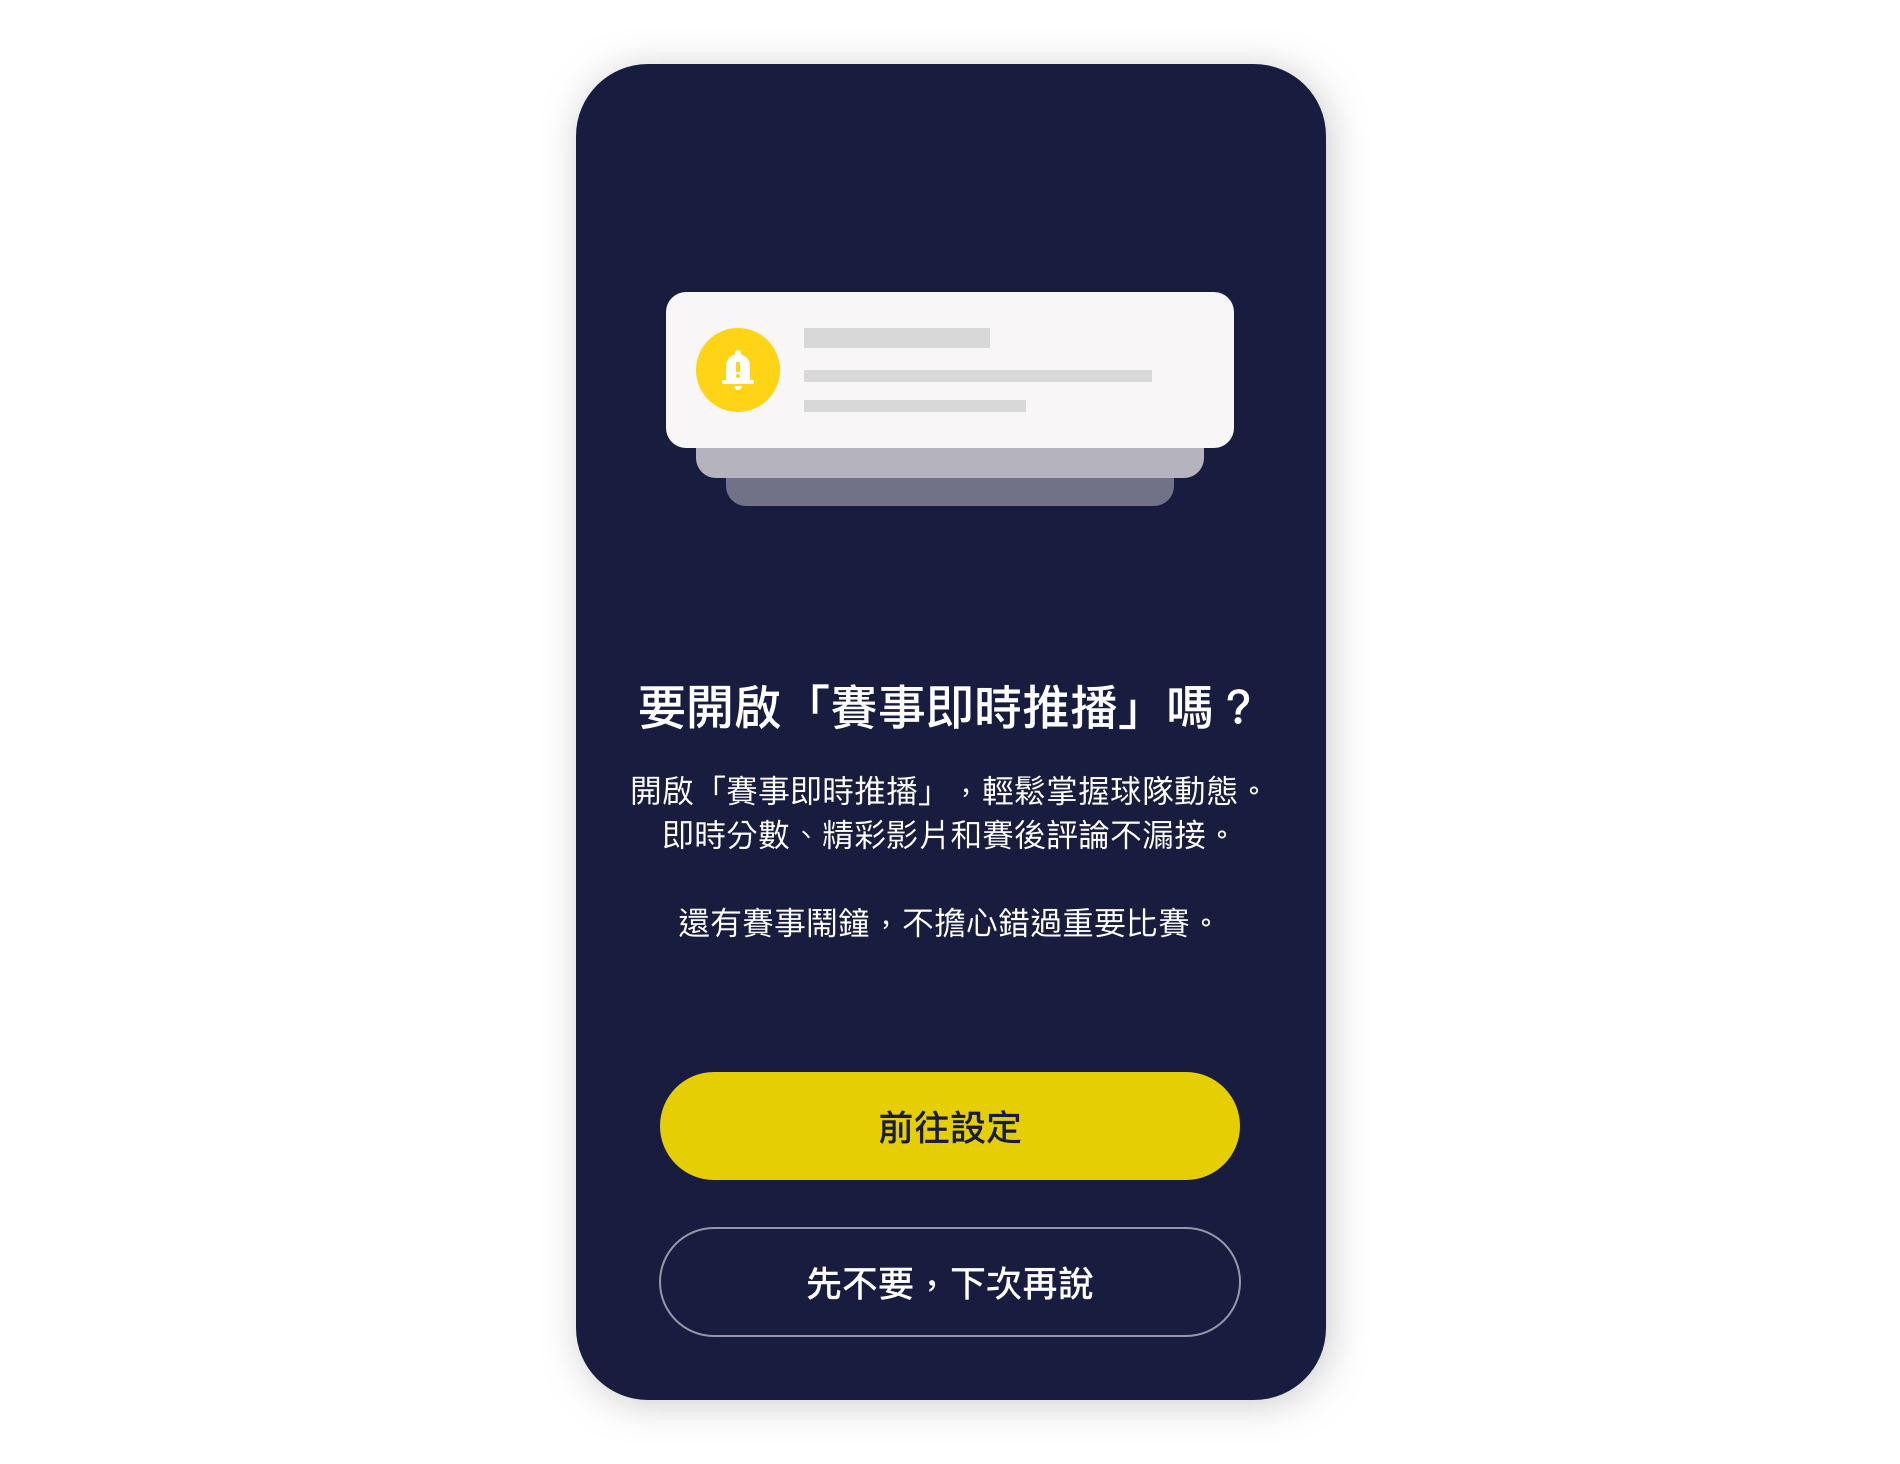
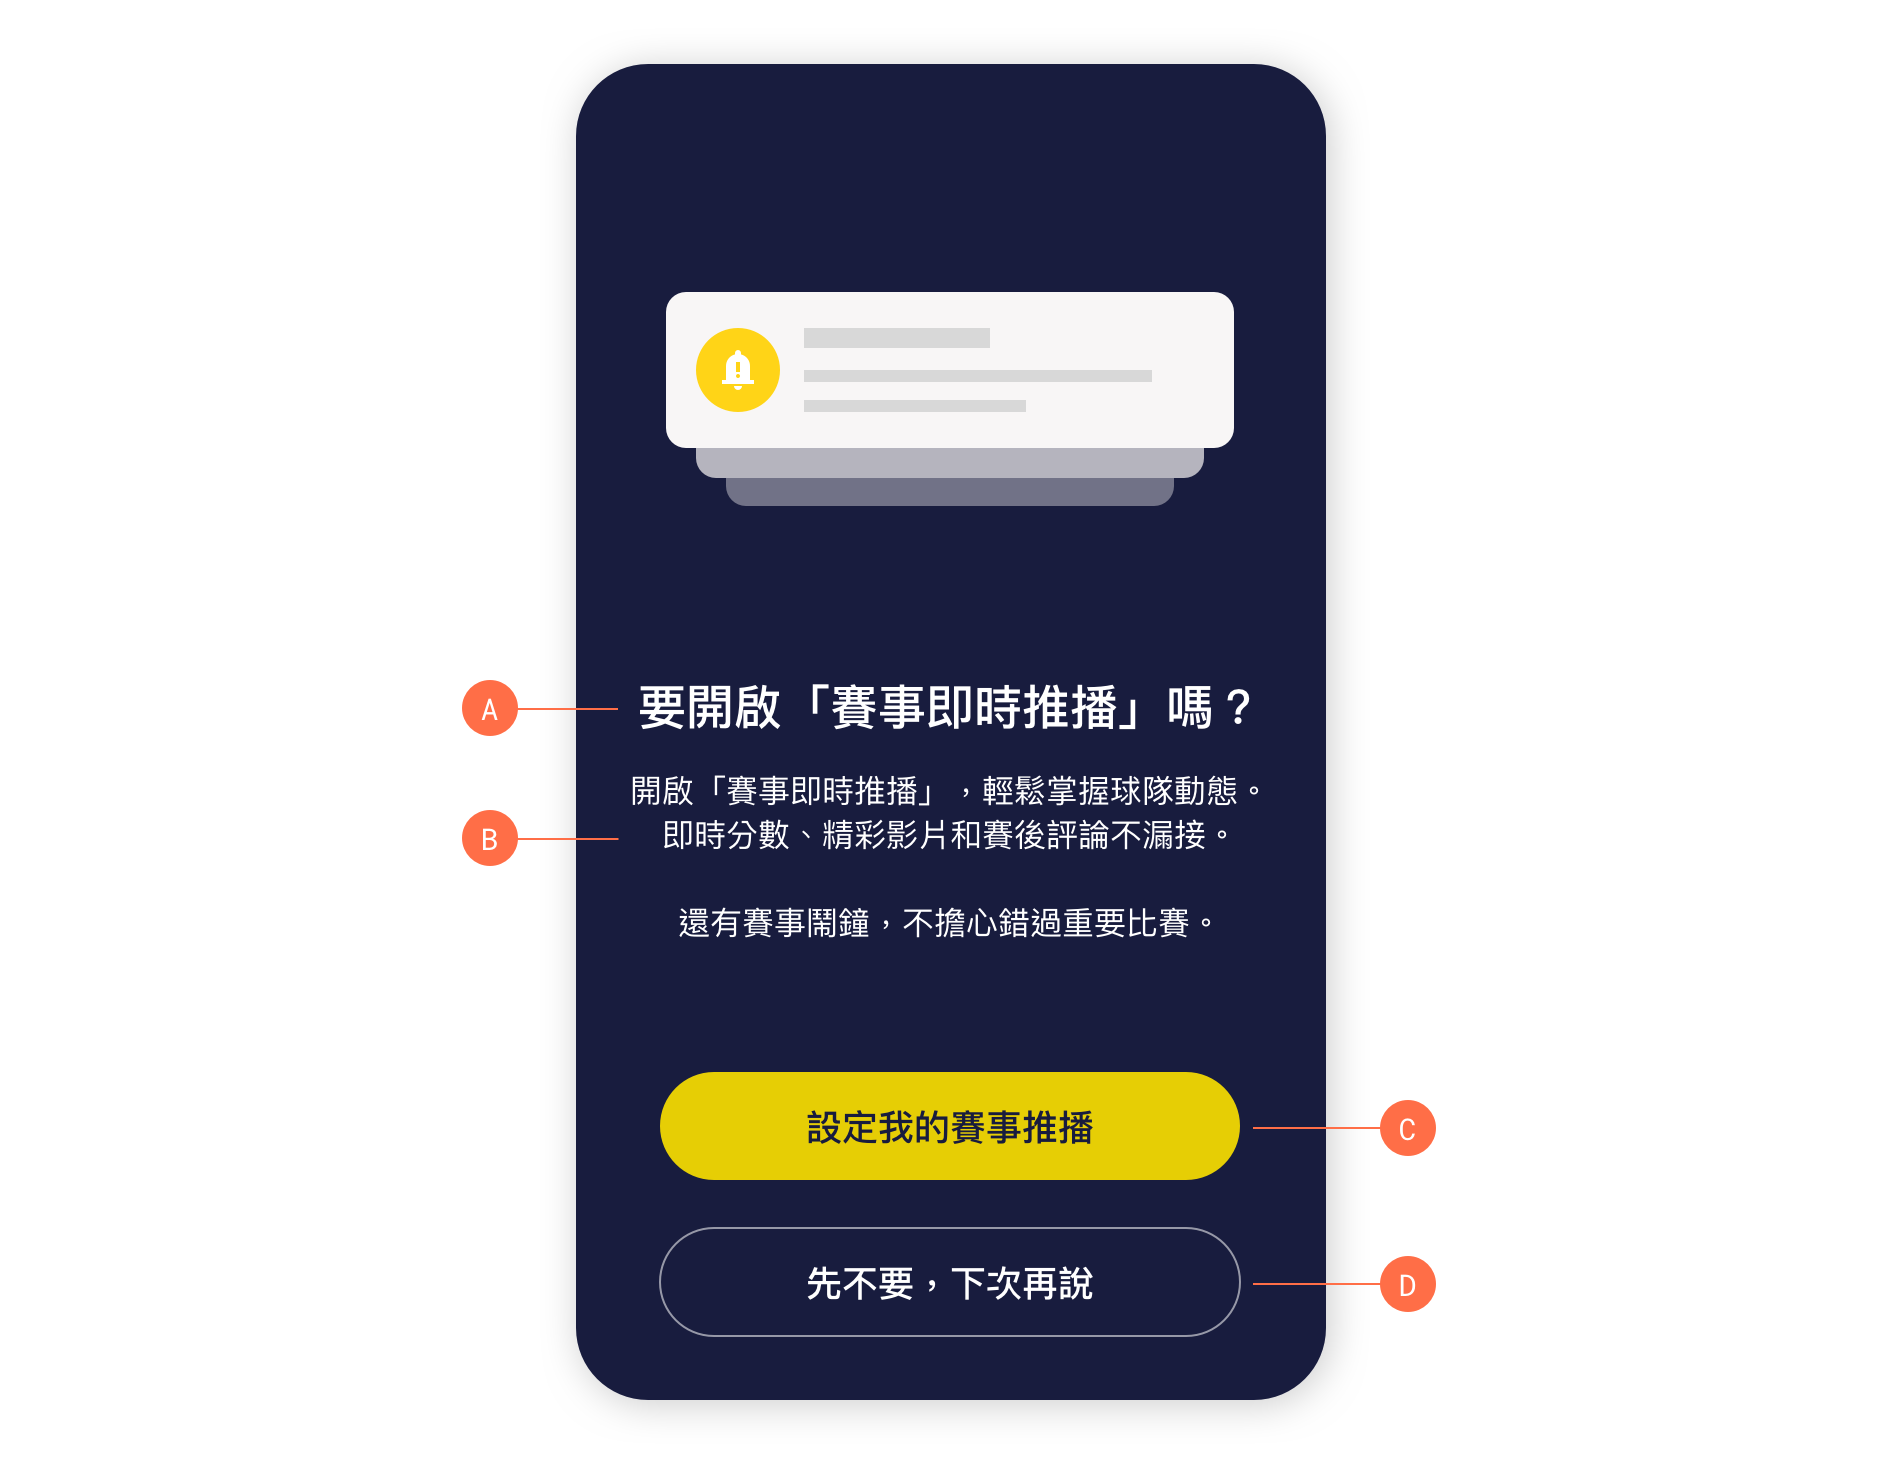
Updated UXW

diff --git a/content.html b/content.html
@@ -212,7 +212,7 @@
             </div>
           </div>
         </div>
-        <h2 class="sub" id="list-item-2" class="categoryHeading">Error Messag</h2>
+        <h2 id="list-item-2" class="sub categoryHeading">Error Messag</h2>
         <div class="row mySectionGroup" >
           <div class="col-md-12 mySectionGroup-heading">
             <h3>Scenario #01</h3>
@@ -428,13 +428,17 @@
           </div>
           <div class="mySectionGroup-screenshot">
             <div class="screenshot"><img src="images/uxw/Promo-D2.png"/>
-              <p>↑ caption goes here: Consectetuer adipiscing elit. Aenean commodo liean maa!</p>
+              <p><span class="captionNum">A</span>Make the headline a direct call to action for users to enable notifications.<br>
+				 <span class="captionNum">B</span>Tell users the benefits of the notification. <br> 
+				  <span class="captionNum">C</span>Use the same keyword "set up" to to reinforce the call to action.<br> <span class="captionNum">D</span>Depends on the business need, the "not now" button provides an opportunity for the promotional ad to reappear.</p> 
             </div>
             <div class="info row" style="margin: 0px">
               <div class="col-lg-6">
                 <h4>Approach</h4>
                 <ol>
-                  <li>asdasd</li>
+					<li>To make the message clear and concise, the headline should explicitly tell users what the app wants them to do.</li>
+                  <li>For the call-to-action buttons, use terms that users can predict what will happen</li>
+					<li>Tell users what's the benefits of the notification</li>
                 </ol>
               </div>
               <div class="col-lg-6">
@@ -450,7 +454,7 @@
           </div>
           <div class="col-md-6">
             <h4>Challenge</h4>
-            <p>Tell the user that one of their favorite bands is playing live in their town. How would you compel them to want to go?</p>
+            <p>Tell the user that one of their favorite bands is playing live in their town and compel them to want to go.</p>
           </div>
           <div class="col-md-6">
             <h4>Length restriction</h4>
@@ -460,13 +464,16 @@
           </div>
           <div class="col-12 mySectionGroup-screenshot">
             <div class="screenshot"><img src="images/uxw/Promo-D8.png"/>
-              <p>↑ caption goes here: Consectetuer adipiscing elit. Aenean commodo ligula eget dolor. Aenean massa.!</p>
+              <p><span class="captionNum">A</span>Use the verb "check" instead of "purchase" to alleviate user concerns about immediate charges from the app.<br><span class="captionNum">B</span>To boost users' interest, add a "Start Listening" button for instant access to the band's music.</p>
             </div>
             <div class="info row" style="margin: 0px">
               <div class="col-lg-6">
                 <h4>Approach</h4>
                 <ol>
-                  <li>asdasd</li>
+                  <li>For Call-to-action buttons, focus on "what's clear" instead of "what's short"</li>
+					<li>Use words like "exclusive" and "Selling fast" to create a sense of urgency</li>
+					<li>Venue and date are essential information</li>
+					<li>If feasible, the promotional page should incorporate in-app features, such as playing a special playlist</li>
                 </ol>
               </div>
               <div class="col-lg-6">
@@ -492,15 +499,17 @@
           </div>
           <div class="col-12 mySectionGroup-screenshot">
             <div class="screenshot"><img src="images/uxw/Promo-D4.png"/>
-              <p>↑ caption goes here: Consectetuer adipiscing elit. Aenean commodo ligula eget dolor. Aenea!</p>
+              <p align="center"><span class="captionNum">A</span>The headline emphasizes the advantages of relieving customers' pain points. <span class="captionNum">B</span>The headline in Version B explains the subscription model.
+</p>
             </div>
             <div class="info row" style="margin: 0px">
               <div class="col-lg-6">
                 <h4>Approach</h4>
                 <ol>
-                  <li>借用時事帶入客戶可能的痛點</li>
-                  <li>需要測試</li>
-                  <li>直接標明價格，讓客戶建立預期心理</li>
+					<li>Make the layout easy to scan, at because users will be reading the content in a distracting environment</li>
+                  <li>Leverage current news, such as a heat wave, to showcase how the subscription model can tackle customer pain points.</li>
+                  <li>A/B test is needed</li>
+                  <li>Be clear and transparent, help customers to predict what they will get</li>
                 </ol>
               </div>
               <div class="col-lg-6">
@@ -525,15 +534,16 @@
           </div>
           <div class="col-12 mySectionGroup-screenshot">
             <div class="screenshot"><img src="images/uxw/Promo-D11.png"/>
-              <p>↑ caption goes here: Consectetuer adipiscing elit. Aenean commodo ligula eget dolor. Aenean massa.!</p>
+              <p><span class="captionNum">A</span>Place the brand name after the keywords "subscription contact lenses"; explain the service at the beginning of the body text.<br><span class="captionNum">B</span>Opposite to ver. A, the keywords are placed at the beginning; communicate the benefits at the beginning of the body text.</p>
             </div>
             <div class="info row" style="margin: 0px">
               <div class="col-lg-6">
                 <h4>Approach</h4>
                 <ol>
-                  <li>用大家熟悉的經驗說明訂閱服務</li>
-                  <li>在內容頁解答顧客的疑慮</li>
-                  <li>讓客戶知道所需時間</li>
+                <li>A/B test is needed</li>  
+					<li>Place keywords and message at the beginning to accommodate F-shaped reading pattern.</li>
+					<li>Utilize relatable language to explain subscription model.</li>
+					<li>To set customers' expectations, briefly explain the benefits.</li>
                 </ol>
               </div>
               <div class="col-lg-6">
